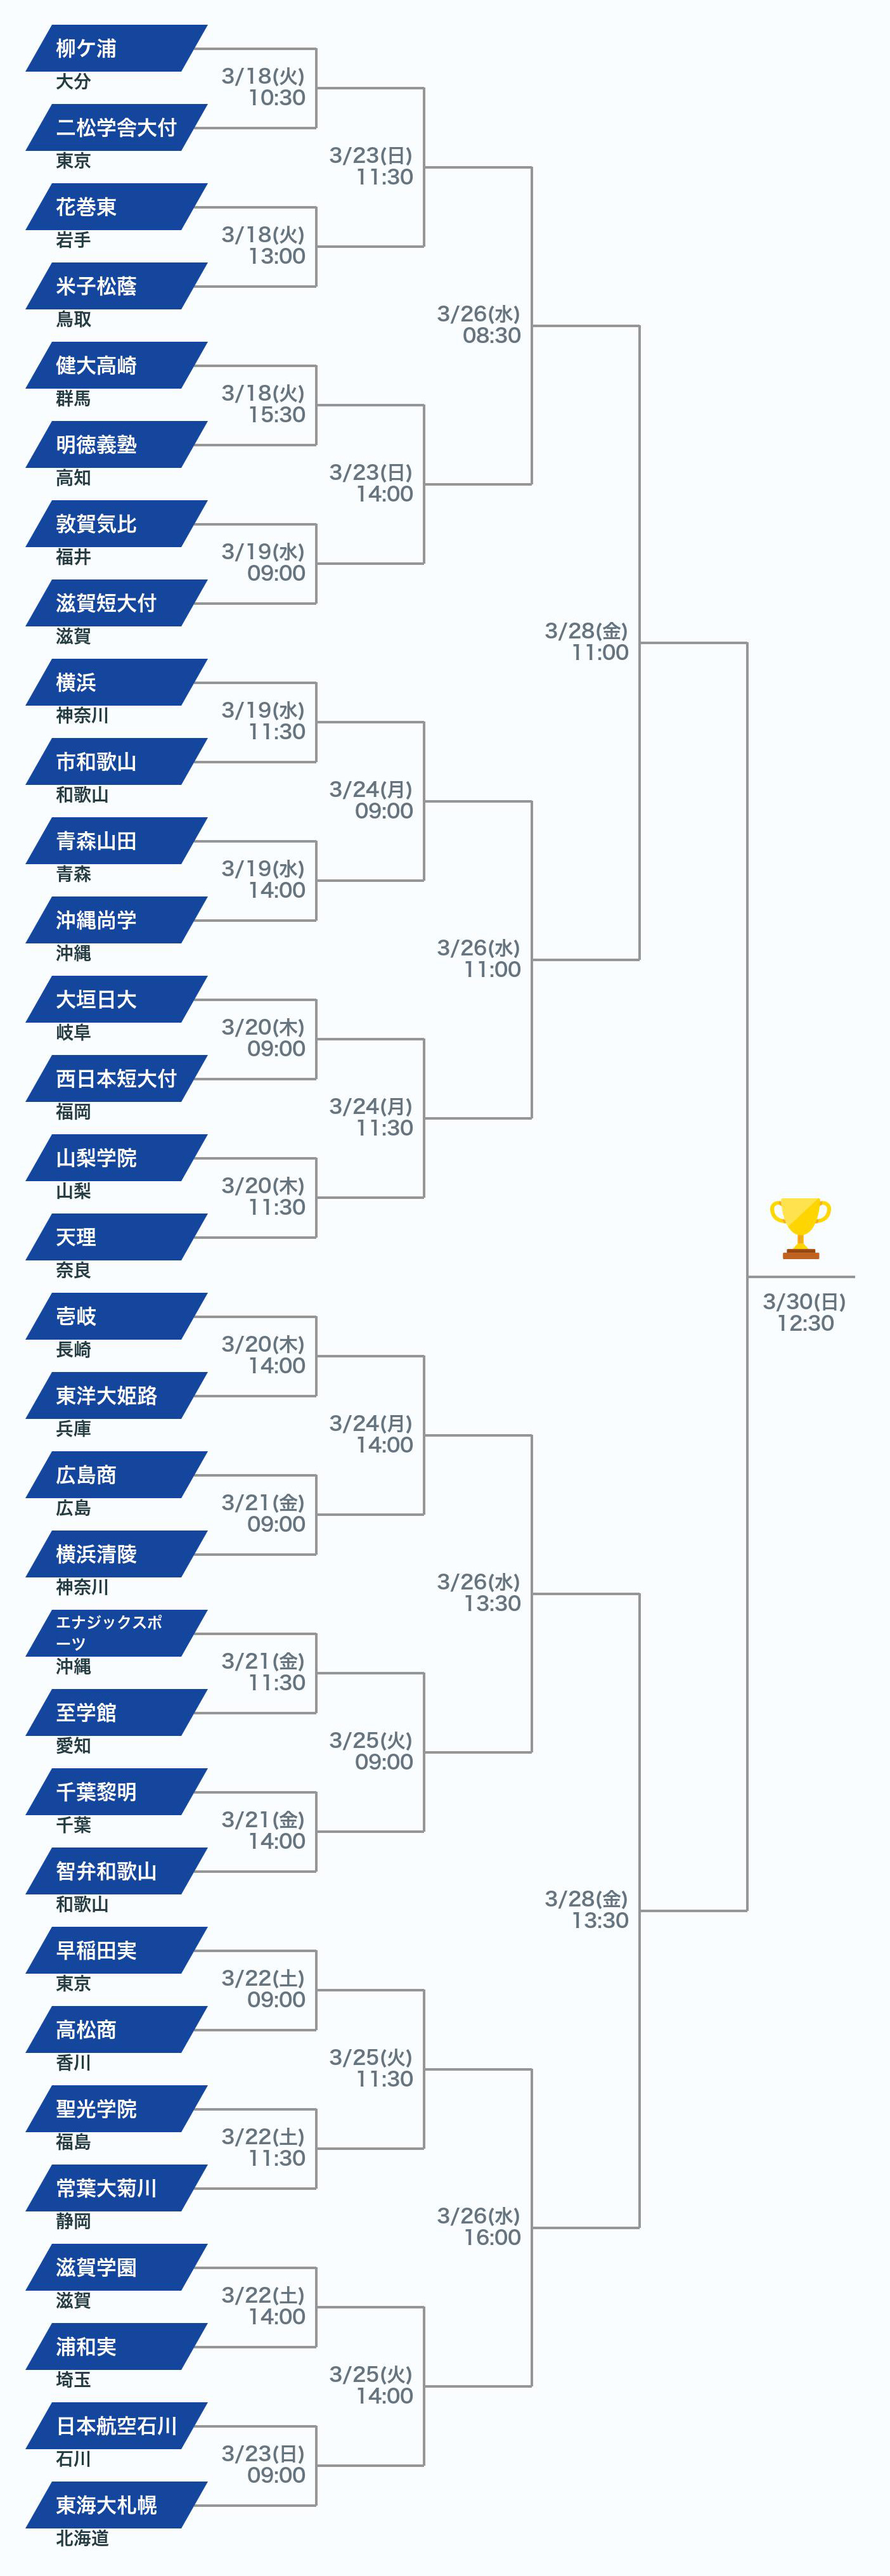
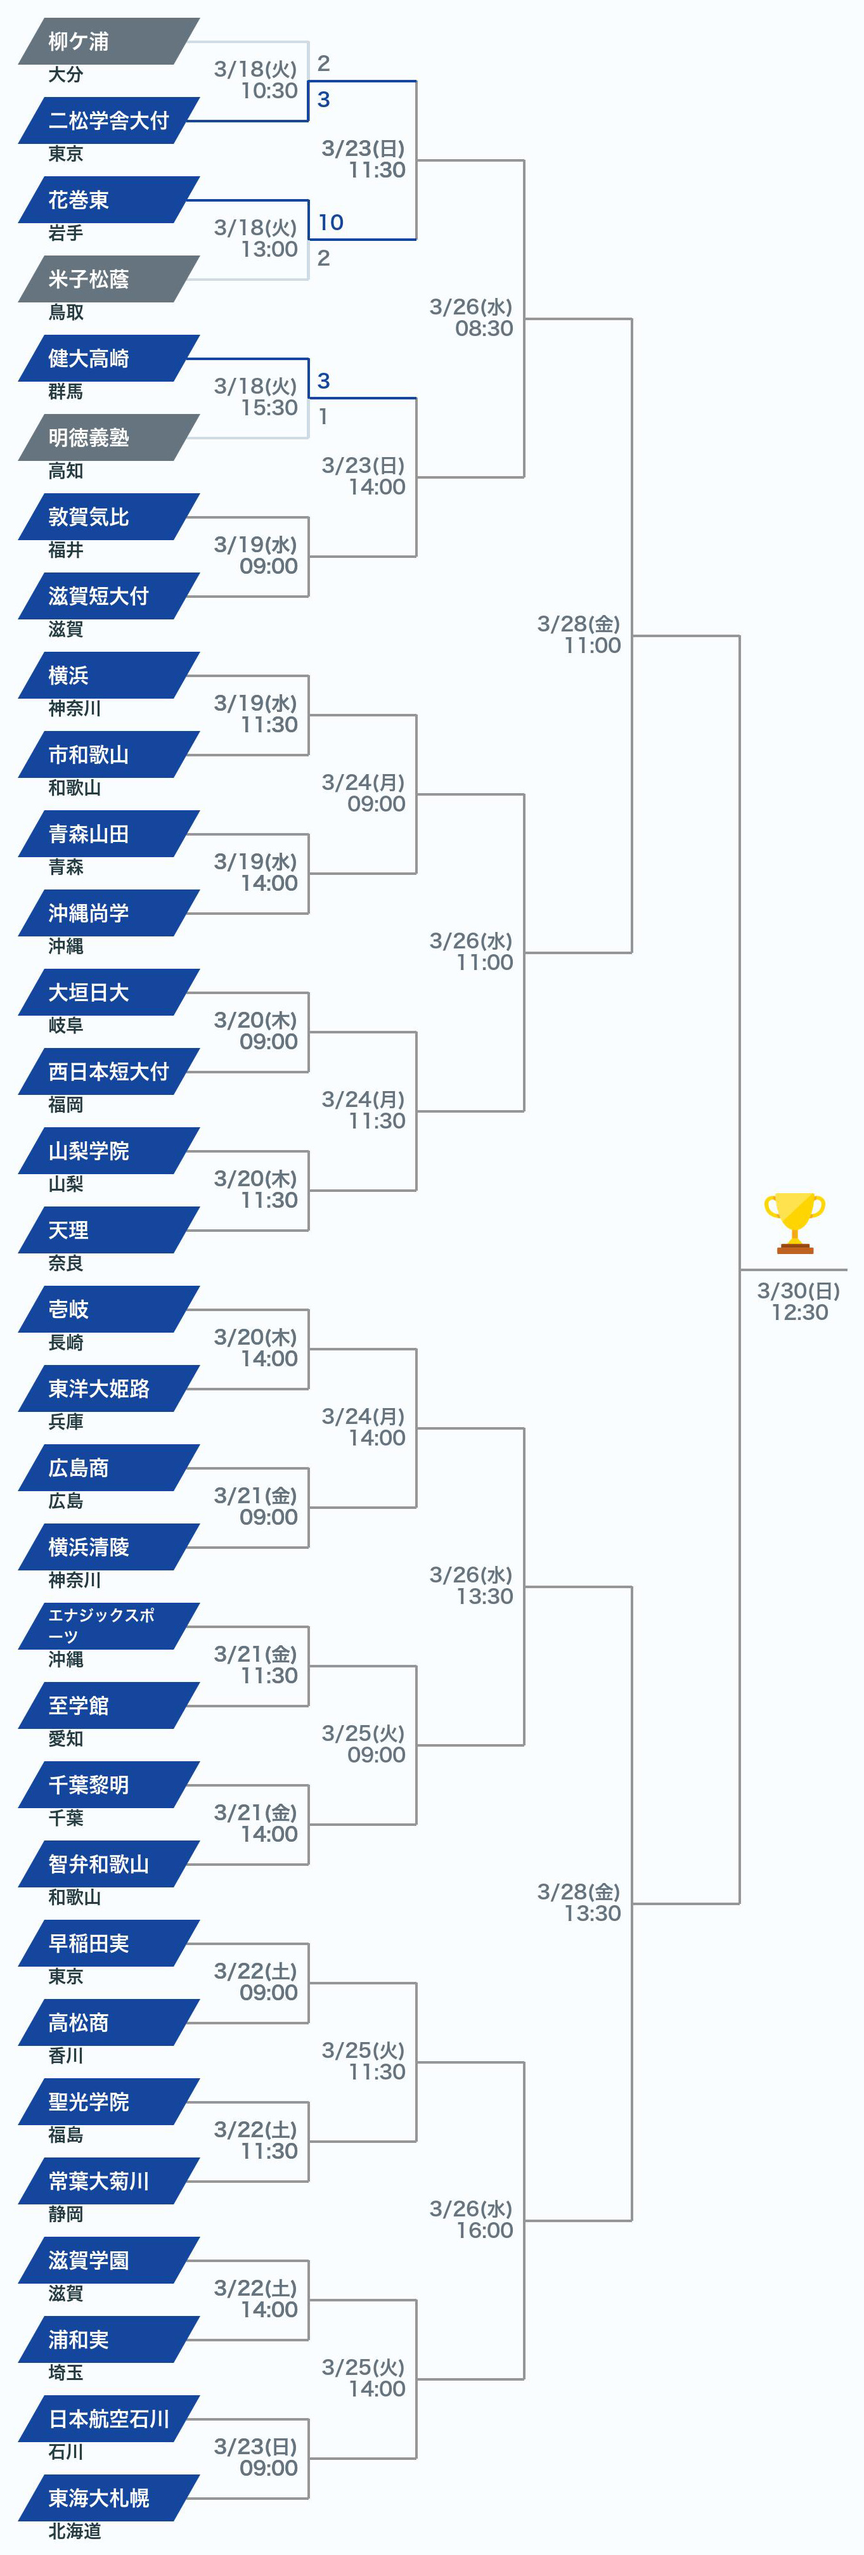
戦績を更新いたしました

diff --git a/index.html b/index.html
@@ -132,7 +132,10 @@
               <tr>
                 <td style="padding: 8px 0">貴大<small>(1)</small></td>
                 <td>滋賀学園</td>
-                <td>明徳義塾</td>
+                <td class="gray">
+                  明徳義塾
+                  <p class="text-small">(1回戦 健大高崎 1 - 3)</p>
+                </td>
               </tr>
               <tr>
                 <td style="padding: 8px 0">綾</td>
